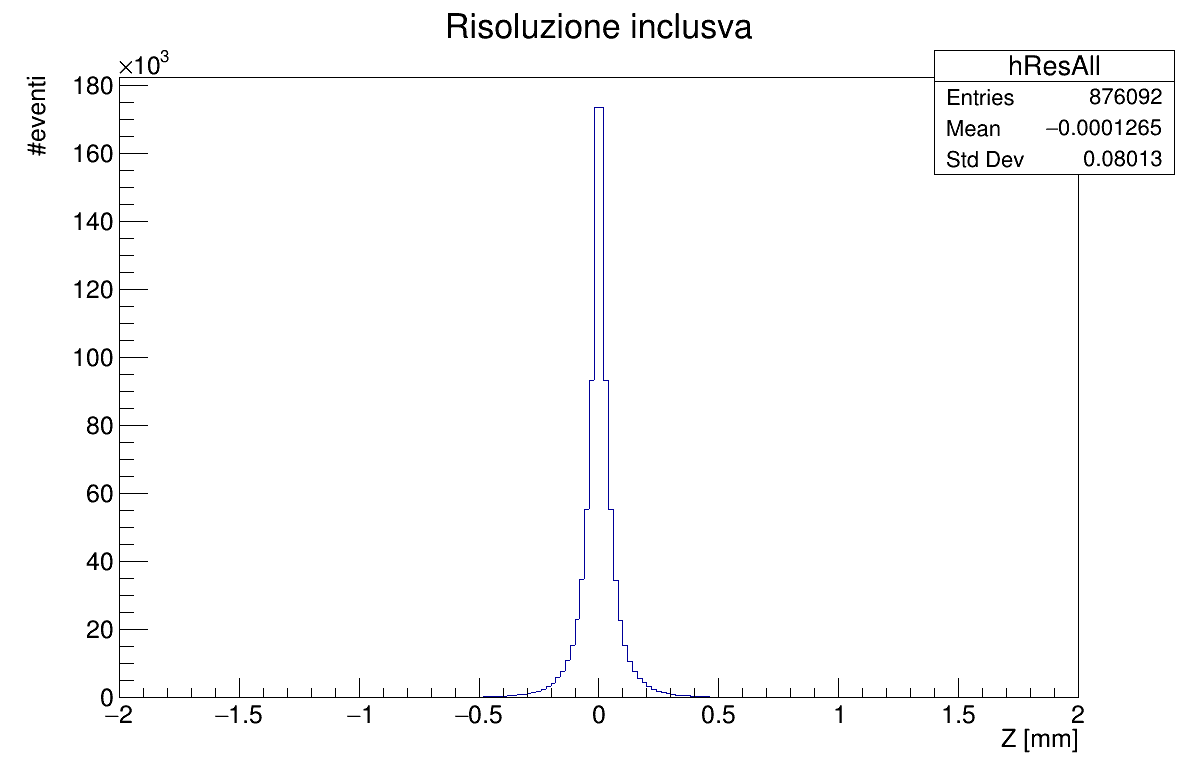
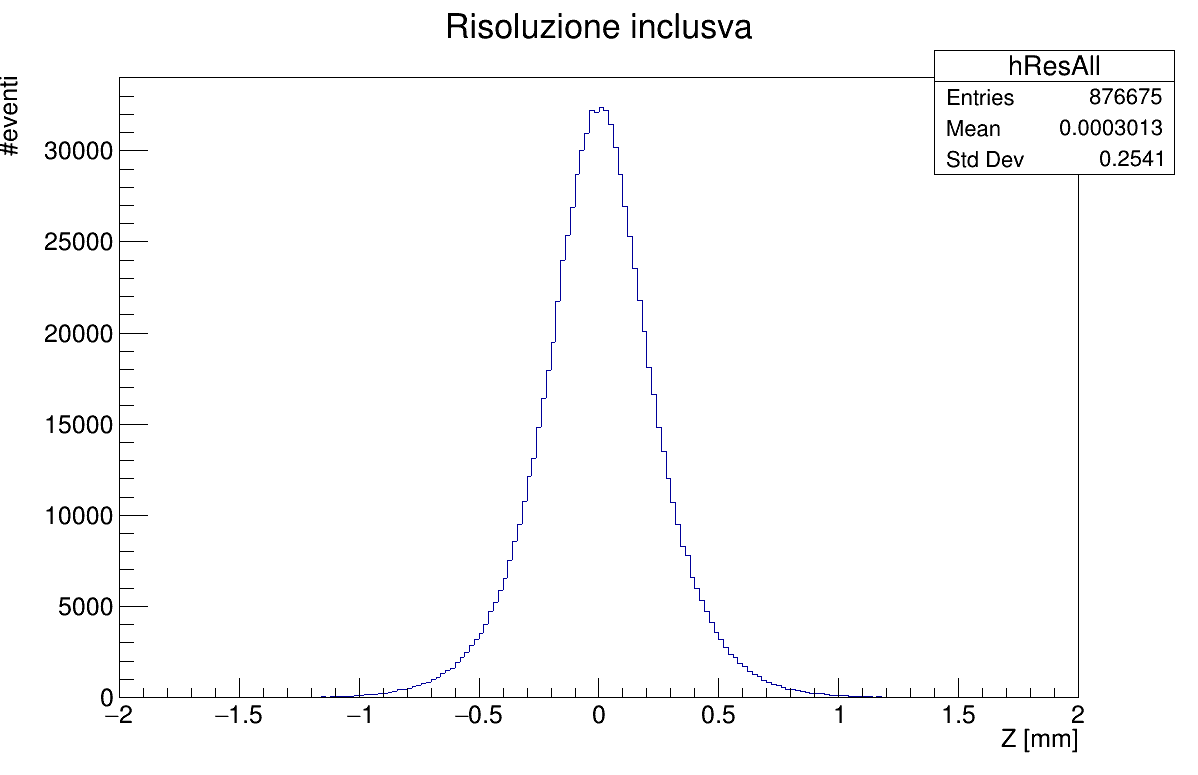
updated readme

diff --git a/src/simulation.C b/src/simulation.C
@@ -54,12 +54,12 @@ int simulation(bool multScat = false, int randomNoise = 0)
       for (uint8_t mult = 0; mult < ptc[3]; mult++) {
          vtx->getDir(part); // update the direction
          double beampt[3];  // hit coordinates in cartesian
-         det->intersect(ptc, part, beampt, 1000., 8.0, 0, 0, multScat, 0.001);
+         det->intersect(ptc, part, beampt, 1000., 8.0, 0.12, 0.03, multScat, 0.001);
          double l1pt[3];
-         hit *  l1hit = det->intersect(beampt, part, l1pt, 270., 40., 0, 0, multScat, 0.001);
+         hit *  l1hit = det->intersect(beampt, part, l1pt, 270., 40., 0.12, 0.03, multScat, 0.001);
          if (l1hit != NULL) L1HITS[L1++] = l1hit;
          double l2pt[3];
-         hit *  l2hit = det->intersect(l1pt, part, l2pt, 270., 70., 0, 0, false, 0);
+         hit *  l2hit = det->intersect(l1pt, part, l2pt, 270., 70., 0.12, 0.03, false, 0);
          if (l2hit != NULL) L2HITS[L2++] = l2hit;
       }
       hitTree->Fill();

diff --git a/src/reconstruction.C b/src/reconstruction.C
@@ -114,7 +114,7 @@ int reconstruction(TString fileName = "simulation.root", uint32_t nevents = 0, c
       }
       hitsL1->Clear("C");
       hitsL2->Clear("C");
-      // printf("\rReconstruction Progress: %u%%", (uint8_t)(e * 100 / toProcess + 1));
+      printf("\rReconstruction Progress: %u%%", (uint8_t)(e * 100 / toProcess + 1));
    }
    printf("\nNot reconstructed: %d\n", notRecon);
    printf("\nNot reconstructed 2: %d\n", nRec);

diff --git a/readme.tex.md b/readme.tex.md
@@ -60,15 +60,15 @@ Efficiency charts are instead built by evaluating reconstructed vs generated ver
 
 ### Results
 Simulation and reconstruction parameters:
-+ Multiple scattering enabled
-+ 10 random noise hits
++ Multiple scattering enabled with $\theta_{rms}=0.001 rad$
++ 0 random noise hits
 + 1'000'000 of events generated and reconstructed
-+ Z tolerance of 0.1 mm
-+ $\theta$ tolerance of 0.1 rad
++ Z tolerance of 1 mm
++ $\theta$ tolerance of 0.01 rad
 
-As we can see from the histograms below, the algorithm reconstructed 670'083 events, resulting in a mean z deviation of -1.221 mm with a standard deviation of 8.945 mm.\
-The resolution is slightly influenced by the multiplicity, specifically when considering the error bars. In the Resolution vs Z graph is possible to see how the resolution errors are greatly reduced near z=0, while diverging at the ends.\
-Regarding the efficiency, with higher multiplicity the algorithm is more efficient as expected. In terms of Z, efficiency is best when near the center, while degrading at the ends.
+The overall efficiency is of 86.7%.
+The resolution is influenced by the multiplicity following an exponential function. In the Resolution vs Z graph is possible to see how the resolution is greatly increased near z=0, while diverging at the ends.\
+Regarding the efficiency, with higher multiplicity the algorithm is more efficient as expected. In terms of Z, efficiency is best when near the center with a plateau of 0.9, while degrading at the ends.
 
 Histograms:
 + Total Resolution (distribution of deviation)
@@ -97,7 +97,7 @@ Histograms:
 + run `.L compile.cxx`
 + run `compile_simulation()`, it takes a while
 + to run the simulation, `simulation(true, 10)` where `true` is enabling multiple scattering and `10` is the number of random noise points per layer
-+ when it is complete, to reconstruct run `recontruction("simulation.root",0,0.1,0.001)`, where arguments are filename, number of events to be processed, tolerance and minimum theta filter
++ when it is complete, to reconstruct run `recontruction("simulation.root",0,1,0.001)`, where arguments are filename, number of events to be processed, tolerance and minimum theta filter
 
 ### Simulation and Reconstruction Performance
 **Testbench:**
@@ -107,13 +107,45 @@ Histograms:
 + 16GB DDR4 RAM
 + 512GB NVMe SSD
 
-With default settings, simulation of 1M events takes 90 seconds on average.\
-Reconstruction of 1M events takes 40 seconds on average.
+With default settings, simulation of 1M events takes 30 seconds on average.\
+Reconstruction of 1M events takes 10 seconds on average.
 
 Performance is greatly improved by using the C++11 STL data classes over _TClonesArray_.
 Simulation of 1M events is around 10 seconds average. **8x faster**.\
 As for now (ROOT v6.19.0), _TTree_ does not support `std::vector<std::array<double,2>>` so the development is not further going on.
 I will keep track of ROOT new releases to see if it will be supported.\
 Post opened on the [ROOT forum](https://root-forum.cern.ch/t/adding-std-array-double-2-to-a-ttree-branch/37425) regarding this issue.
+
+### Project Files Tree
+```
+project
++--- src
+     +--- simulation.C
+     +--- reconstruction.C
+     +--- simulation_std.C
++--- lib
+     +--- collision.h
+     +--- collision.cxx
+     +--- detector.h
+     +--- detector.cxx
+     +--- hit.h
+     +--- hit.cxx
+     +--- particle.h
+     +--- particle.cxx
+     +--- tracklet.h
+     +--- tracklet.cxx
++--- data
+     +--- kinem.root
++--- img
++--- tex
++- compile.cxx
++- compile_std.cxx
+```
+**Libraries Description**:
++ *collision*: generate vertex, multiplicity and direction
++ *detector*: intersect with detector layers, random noise and multiple scattering
++ *hit*: hit coordinates, angle difference method
++ *particle*: particle direction, transport layer
++ *tracklet*: z-vertex finder
 
 *Written by Alberto Perro - 2019*
